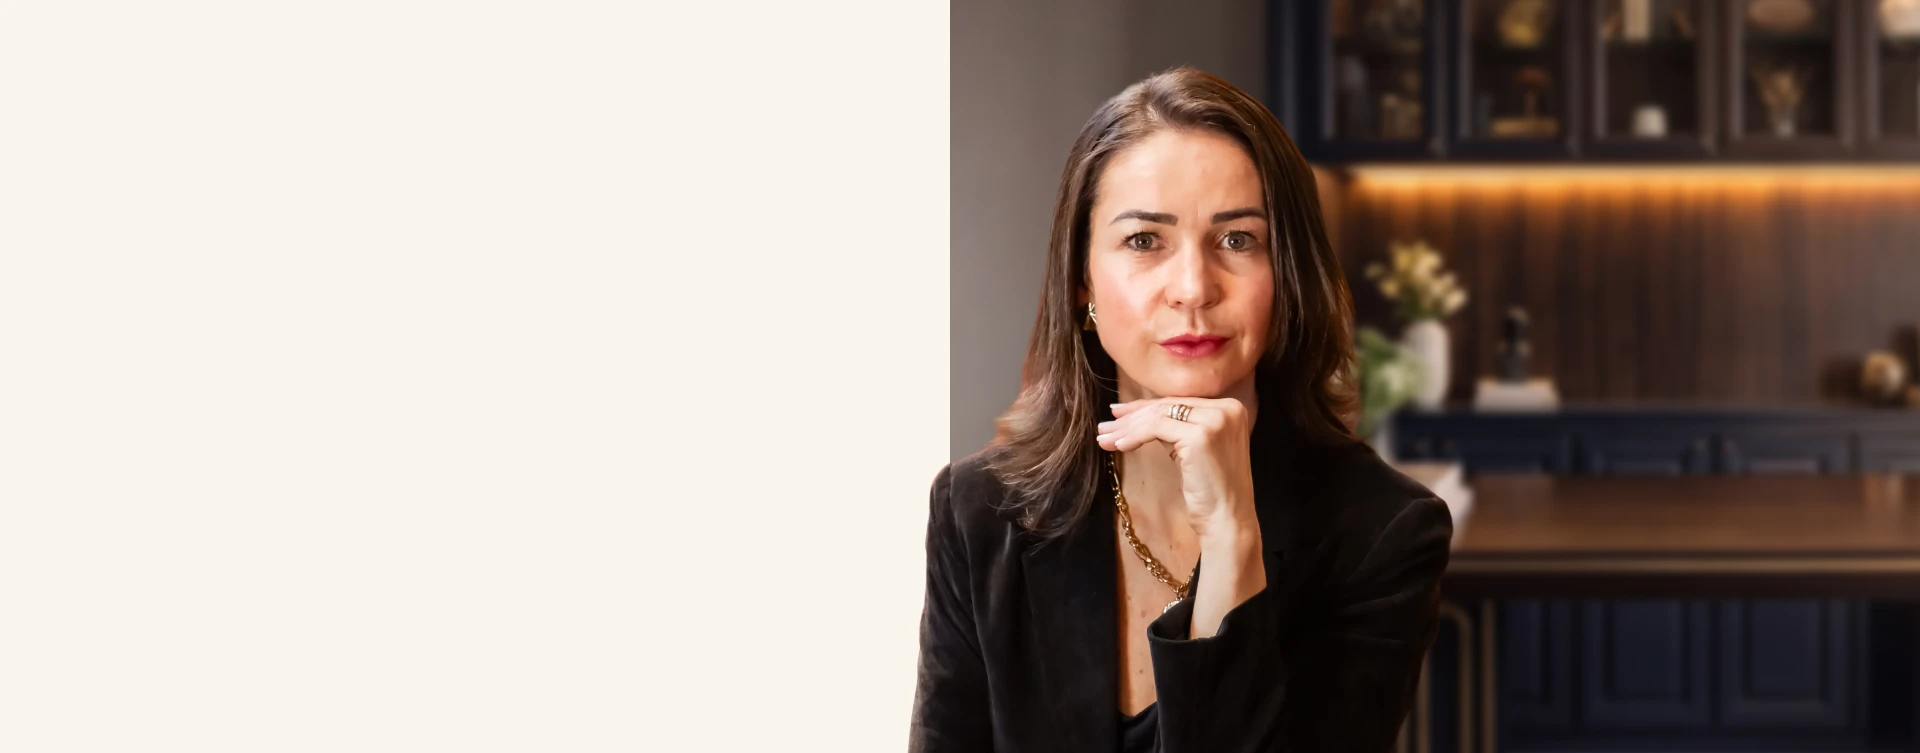
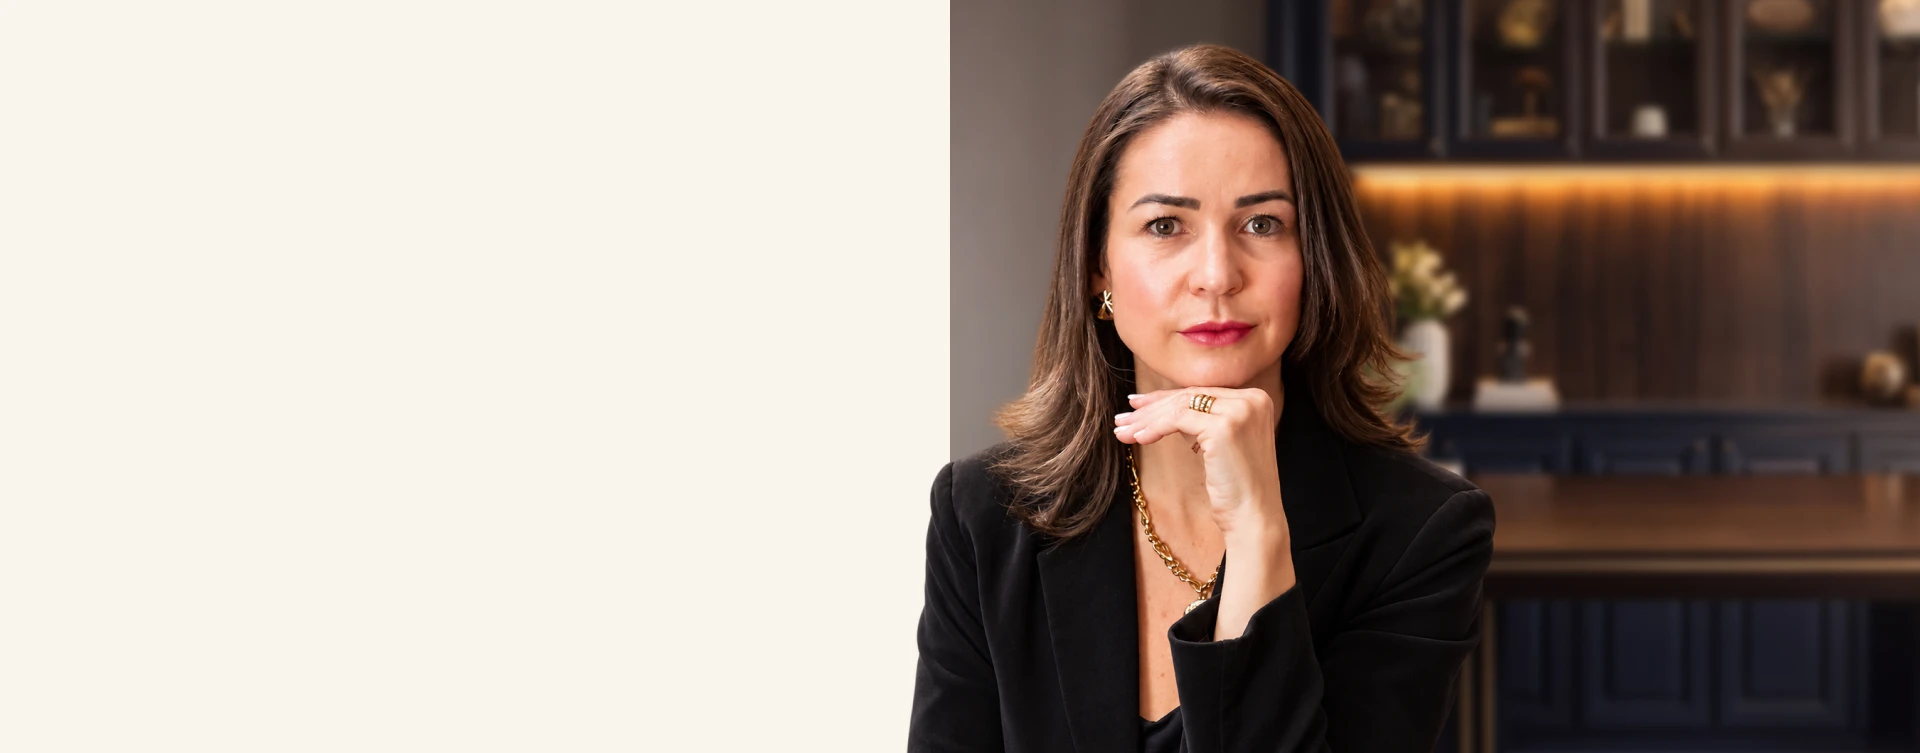
Hero: nova foto do desktop e foto própria para celular/tablet (hero-mobile.webp); imagens com versão no endereço

Changed region(s): [[0.4688, 0.0611, 0.7812, 1.0], [0.7188, 0.8858, 0.75, 1.0], [0.75, 0.7942, 0.7812, 0.8552]]

diff --git a/versao-b/index.html b/versao-b/index.html
@@ -9,7 +9,7 @@
 <link rel="preconnect" href="https://fonts.googleapis.com">
 <link rel="preconnect" href="https://fonts.gstatic.com" crossorigin>
 <link rel="stylesheet" href="https://fonts.googleapis.com/css2?family=Playfair+Display:ital,wght@0,600;0,700;1,600;1,700&family=Raleway:wght@400;500;600;700&display=swap">
-<link rel="stylesheet" href="../assets/styles.css?v=b5b7f9ae">
+<link rel="stylesheet" href="../assets/styles.css?v=e48f04c1">
 <link rel="stylesheet" href="../assets/motion.css?v=0e9d5f01">
 </head>
 <body class="version-b">
@@ -38,10 +38,10 @@
       </div>
     </div>
     <div class="hero__media">
-      <figure class="photo photo--hero"><img src="../assets/img/hero.webp" alt="Psicóloga Alessandra Trentin" loading="eager" decoding="async"></figure>
+      <figure class="photo photo--hero has-mobile"><picture><source media="(max-width: 1199px)" srcset="../assets/img/hero-mobile.webp?v=ed5c1148"><img src="../assets/img/hero.webp?v=8b346300" alt="Psicóloga Alessandra Trentin" loading="eager" decoding="async"></picture></figure>
       <div class="hero__overlay">
   <div class="photo-badge">
-    <span class="photo-badge__avatar"><img src="../assets/img/avatar.webp" alt=""></span>
+    <span class="photo-badge__avatar"><img src="../assets/img/avatar.webp?v=dbe582f8" alt=""></span>
     <span class="photo-badge__text"><strong>Alessandra Trentin</strong><span>Psicóloga · CRP 07/14095</span></span>
   </div></div>
     </div>
@@ -182,10 +182,10 @@
 <section class="section theme-warm section--watermark section--watermark-about" aria-labelledby="sobre-title" data-section="06-sobre">
   <div class="container about">
     <div class="about__media">
-      <figure class="photo photo--portrait"><img src="../assets/img/sobre.webp" alt="Retrato profissional da psicóloga Alessandra Mangoni Galves Trentin" style="object-position:50% 20%" loading="lazy" decoding="async"></figure>
+      <figure class="photo photo--portrait"><img src="../assets/img/sobre.webp?v=7f7982d8" alt="Retrato profissional da psicóloga Alessandra Mangoni Galves Trentin" style="object-position:50% 20%" loading="lazy" decoding="async"></figure>
       
   <div class="photo-badge">
-    <span class="photo-badge__avatar"><img src="../assets/img/avatar.webp" alt=""></span>
+    <span class="photo-badge__avatar"><img src="../assets/img/avatar.webp?v=dbe582f8" alt=""></span>
     <span class="photo-badge__text"><strong>Alessandra Trentin</strong><span>Psicóloga · CRP 07/14095</span></span>
   </div>
     </div>

diff --git a/versao-a/index.html b/versao-a/index.html
@@ -9,7 +9,7 @@
 <link rel="preconnect" href="https://fonts.googleapis.com">
 <link rel="preconnect" href="https://fonts.gstatic.com" crossorigin>
 <link rel="stylesheet" href="https://fonts.googleapis.com/css2?family=Playfair+Display:ital,wght@0,600;0,700;1,600;1,700&family=Raleway:wght@400;500;600;700&display=swap">
-<link rel="stylesheet" href="../assets/styles.css?v=b5b7f9ae">
+<link rel="stylesheet" href="../assets/styles.css?v=e48f04c1">
 </head>
 <body>
 <a class="skip-link" href="#conteudo">Ir para o conteúdo</a>
@@ -37,10 +37,10 @@
       </div>
     </div>
     <div class="hero__media">
-      <figure class="photo photo--hero"><img src="../assets/img/hero.webp" alt="Psicóloga Alessandra Trentin" loading="eager" decoding="async"></figure>
+      <figure class="photo photo--hero has-mobile"><picture><source media="(max-width: 1199px)" srcset="../assets/img/hero-mobile.webp?v=ed5c1148"><img src="../assets/img/hero.webp?v=8b346300" alt="Psicóloga Alessandra Trentin" loading="eager" decoding="async"></picture></figure>
       <div class="hero__overlay">
   <div class="photo-badge">
-    <span class="photo-badge__avatar"><img src="../assets/img/avatar.webp" alt=""></span>
+    <span class="photo-badge__avatar"><img src="../assets/img/avatar.webp?v=dbe582f8" alt=""></span>
     <span class="photo-badge__text"><strong>Alessandra Trentin</strong><span>Psicóloga · CRP 07/14095</span></span>
   </div></div>
     </div>
@@ -181,10 +181,10 @@
 <section class="section theme-warm section--watermark section--watermark-about" aria-labelledby="sobre-title" data-section="06-sobre">
   <div class="container about">
     <div class="about__media">
-      <figure class="photo photo--portrait"><img src="../assets/img/sobre.webp" alt="Retrato profissional da psicóloga Alessandra Mangoni Galves Trentin" style="object-position:50% 20%" loading="lazy" decoding="async"></figure>
+      <figure class="photo photo--portrait"><img src="../assets/img/sobre.webp?v=7f7982d8" alt="Retrato profissional da psicóloga Alessandra Mangoni Galves Trentin" style="object-position:50% 20%" loading="lazy" decoding="async"></figure>
       
   <div class="photo-badge">
-    <span class="photo-badge__avatar"><img src="../assets/img/avatar.webp" alt=""></span>
+    <span class="photo-badge__avatar"><img src="../assets/img/avatar.webp?v=dbe582f8" alt=""></span>
     <span class="photo-badge__text"><strong>Alessandra Trentin</strong><span>Psicóloga · CRP 07/14095</span></span>
   </div>
     </div>

diff --git a/index.html b/index.html
@@ -9,7 +9,7 @@
 <link rel="preconnect" href="https://fonts.googleapis.com">
 <link rel="preconnect" href="https://fonts.gstatic.com" crossorigin>
 <link rel="stylesheet" href="https://fonts.googleapis.com/css2?family=Playfair+Display:ital,wght@0,600;0,700;1,600;1,700&family=Raleway:wght@400;500;600;700&display=swap">
-<link rel="stylesheet" href="assets/styles.css?v=b5b7f9ae">
+<link rel="stylesheet" href="assets/styles.css?v=e48f04c1">
 </head>
 <body>
 <a class="skip-link" href="#conteudo">Ir para o conteúdo</a>
@@ -37,10 +37,10 @@
       </div>
     </div>
     <div class="hero__media">
-      <figure class="photo photo--hero"><img src="assets/img/hero.webp" alt="Psicóloga Alessandra Trentin" loading="eager" decoding="async"></figure>
+      <figure class="photo photo--hero has-mobile"><picture><source media="(max-width: 1199px)" srcset="assets/img/hero-mobile.webp?v=ed5c1148"><img src="assets/img/hero.webp?v=8b346300" alt="Psicóloga Alessandra Trentin" loading="eager" decoding="async"></picture></figure>
       <div class="hero__overlay">
   <div class="photo-badge">
-    <span class="photo-badge__avatar"><img src="assets/img/avatar.webp" alt=""></span>
+    <span class="photo-badge__avatar"><img src="assets/img/avatar.webp?v=dbe582f8" alt=""></span>
     <span class="photo-badge__text"><strong>Alessandra Trentin</strong><span>Psicóloga · CRP 07/14095</span></span>
   </div></div>
     </div>
@@ -181,10 +181,10 @@
 <section class="section theme-warm section--watermark section--watermark-about" aria-labelledby="sobre-title" data-section="06-sobre">
   <div class="container about">
     <div class="about__media">
-      <figure class="photo photo--portrait"><img src="assets/img/sobre.webp" alt="Retrato profissional da psicóloga Alessandra Mangoni Galves Trentin" style="object-position:50% 20%" loading="lazy" decoding="async"></figure>
+      <figure class="photo photo--portrait"><img src="assets/img/sobre.webp?v=7f7982d8" alt="Retrato profissional da psicóloga Alessandra Mangoni Galves Trentin" style="object-position:50% 20%" loading="lazy" decoding="async"></figure>
       
   <div class="photo-badge">
-    <span class="photo-badge__avatar"><img src="assets/img/avatar.webp" alt=""></span>
+    <span class="photo-badge__avatar"><img src="assets/img/avatar.webp?v=dbe582f8" alt=""></span>
     <span class="photo-badge__text"><strong>Alessandra Trentin</strong><span>Psicóloga · CRP 07/14095</span></span>
   </div>
     </div>

diff --git a/assets/styles.css b/assets/styles.css
@@ -285,6 +285,9 @@ strong { font-weight: 600; }
 /* hero.webp tem uma faixa creme à esquerda: no mobile ela fica fora do recorte; no desktop ela
    emenda com o fundo e o rosto fica no centro da coluna. */
 .hero .photo--hero img { object-position: 74% 20%; }
+.photo picture { display: contents; }
+/* Celular e tablet com hero-mobile.webp (só a foto, 4:5): rosto centralizado no recorte. */
+@media (max-width: 1199px) { .hero .photo--hero.has-mobile img { object-position: 50% 22%; } }
 .hero .photo--hero { aspect-ratio: 4 / 5; border-radius: 0; height: 100%; }
 .hero .photo--placeholder { outline-offset: -16px; }
 .hero .photo__label { max-width: 32ch; margin-inline: auto; }
